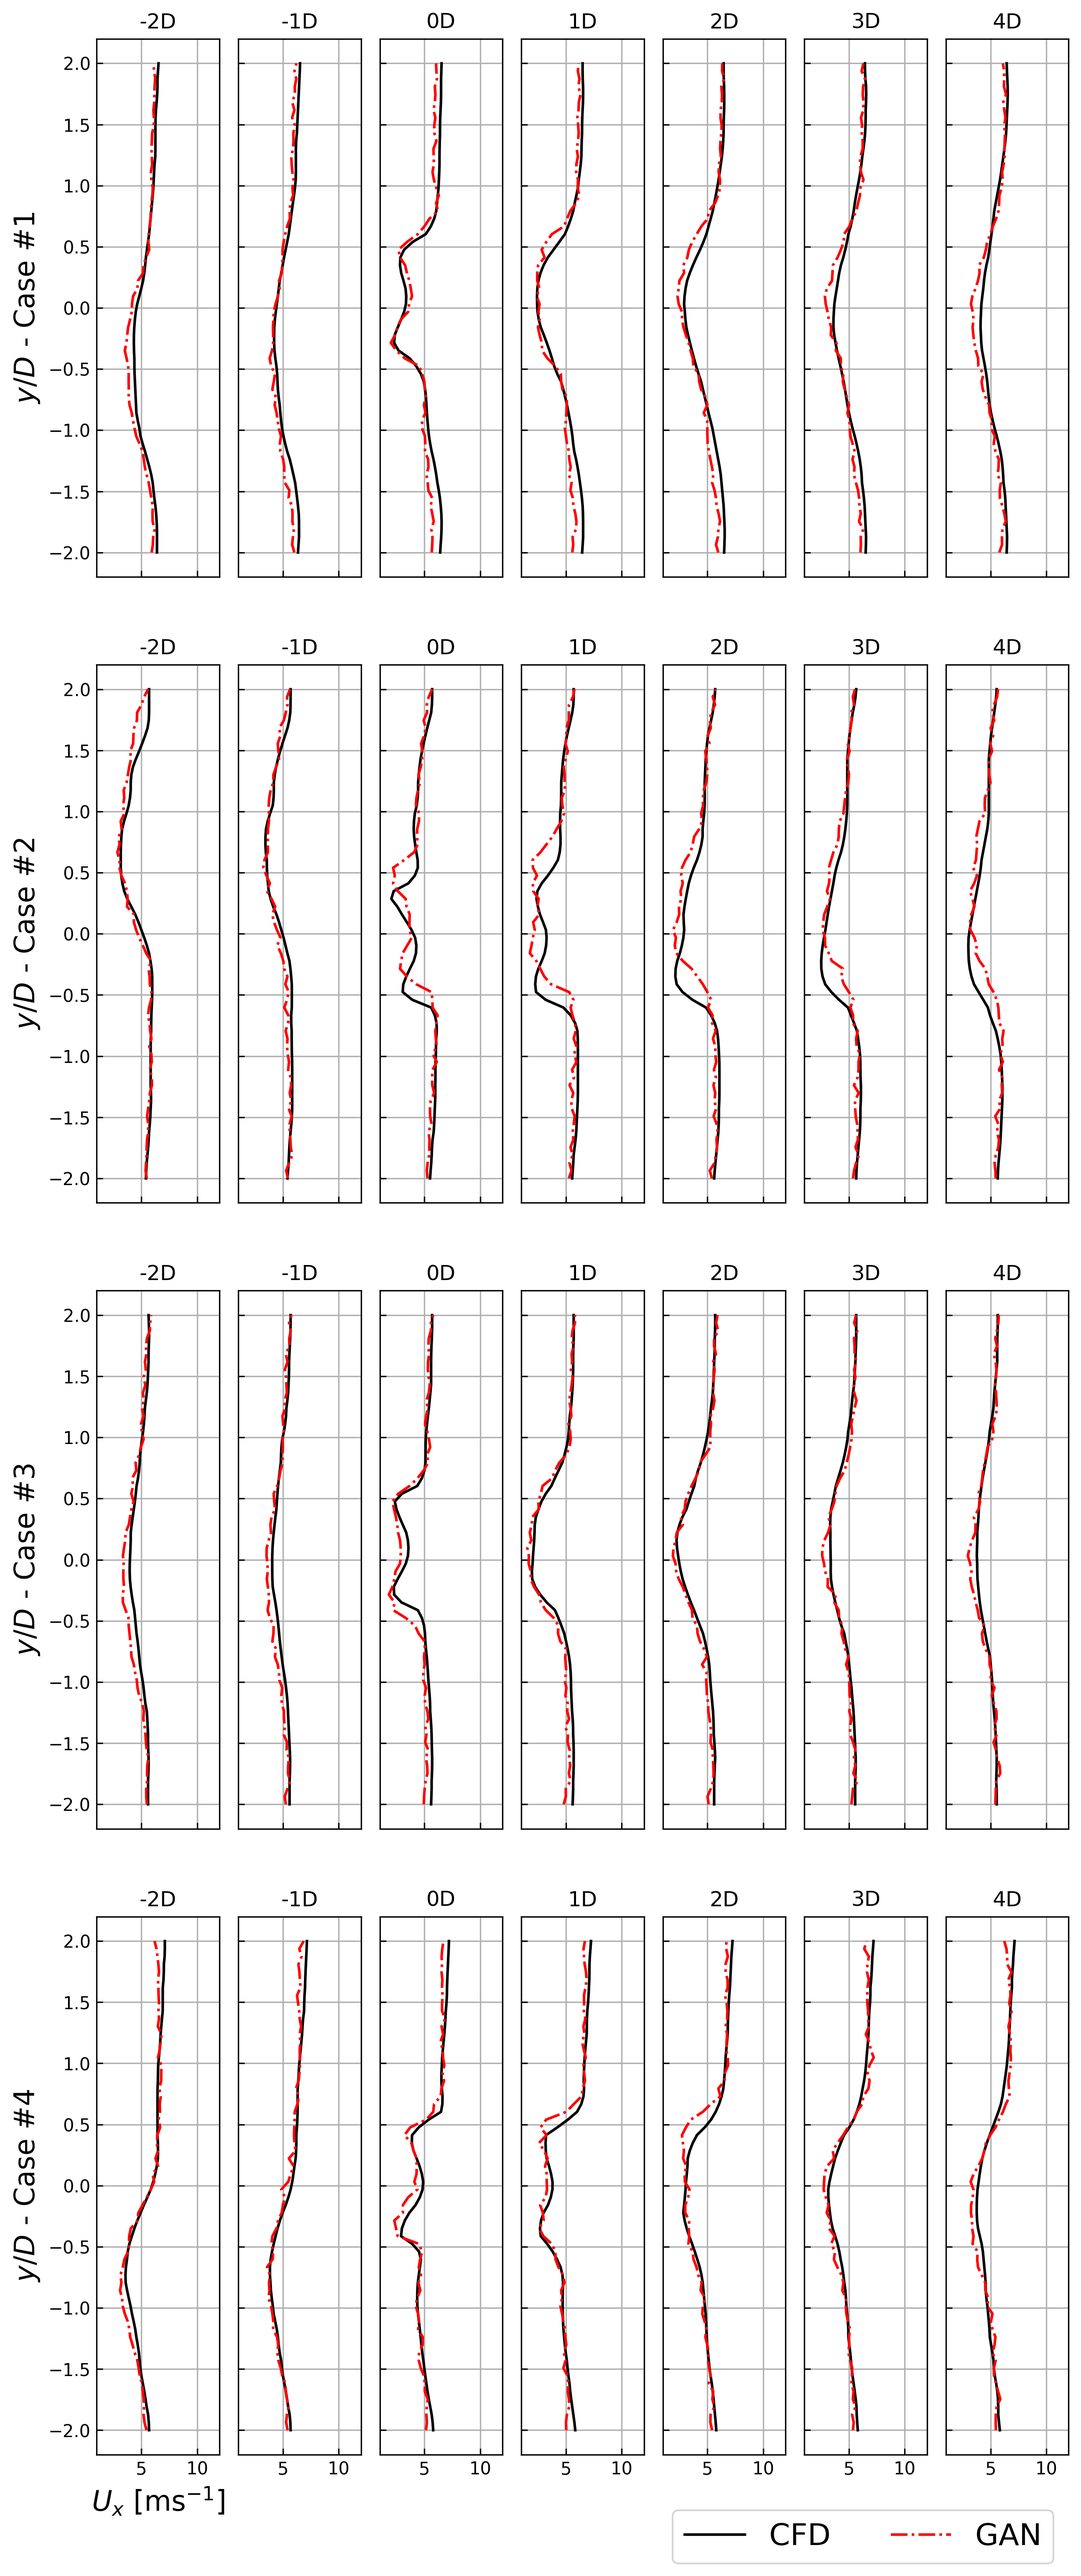
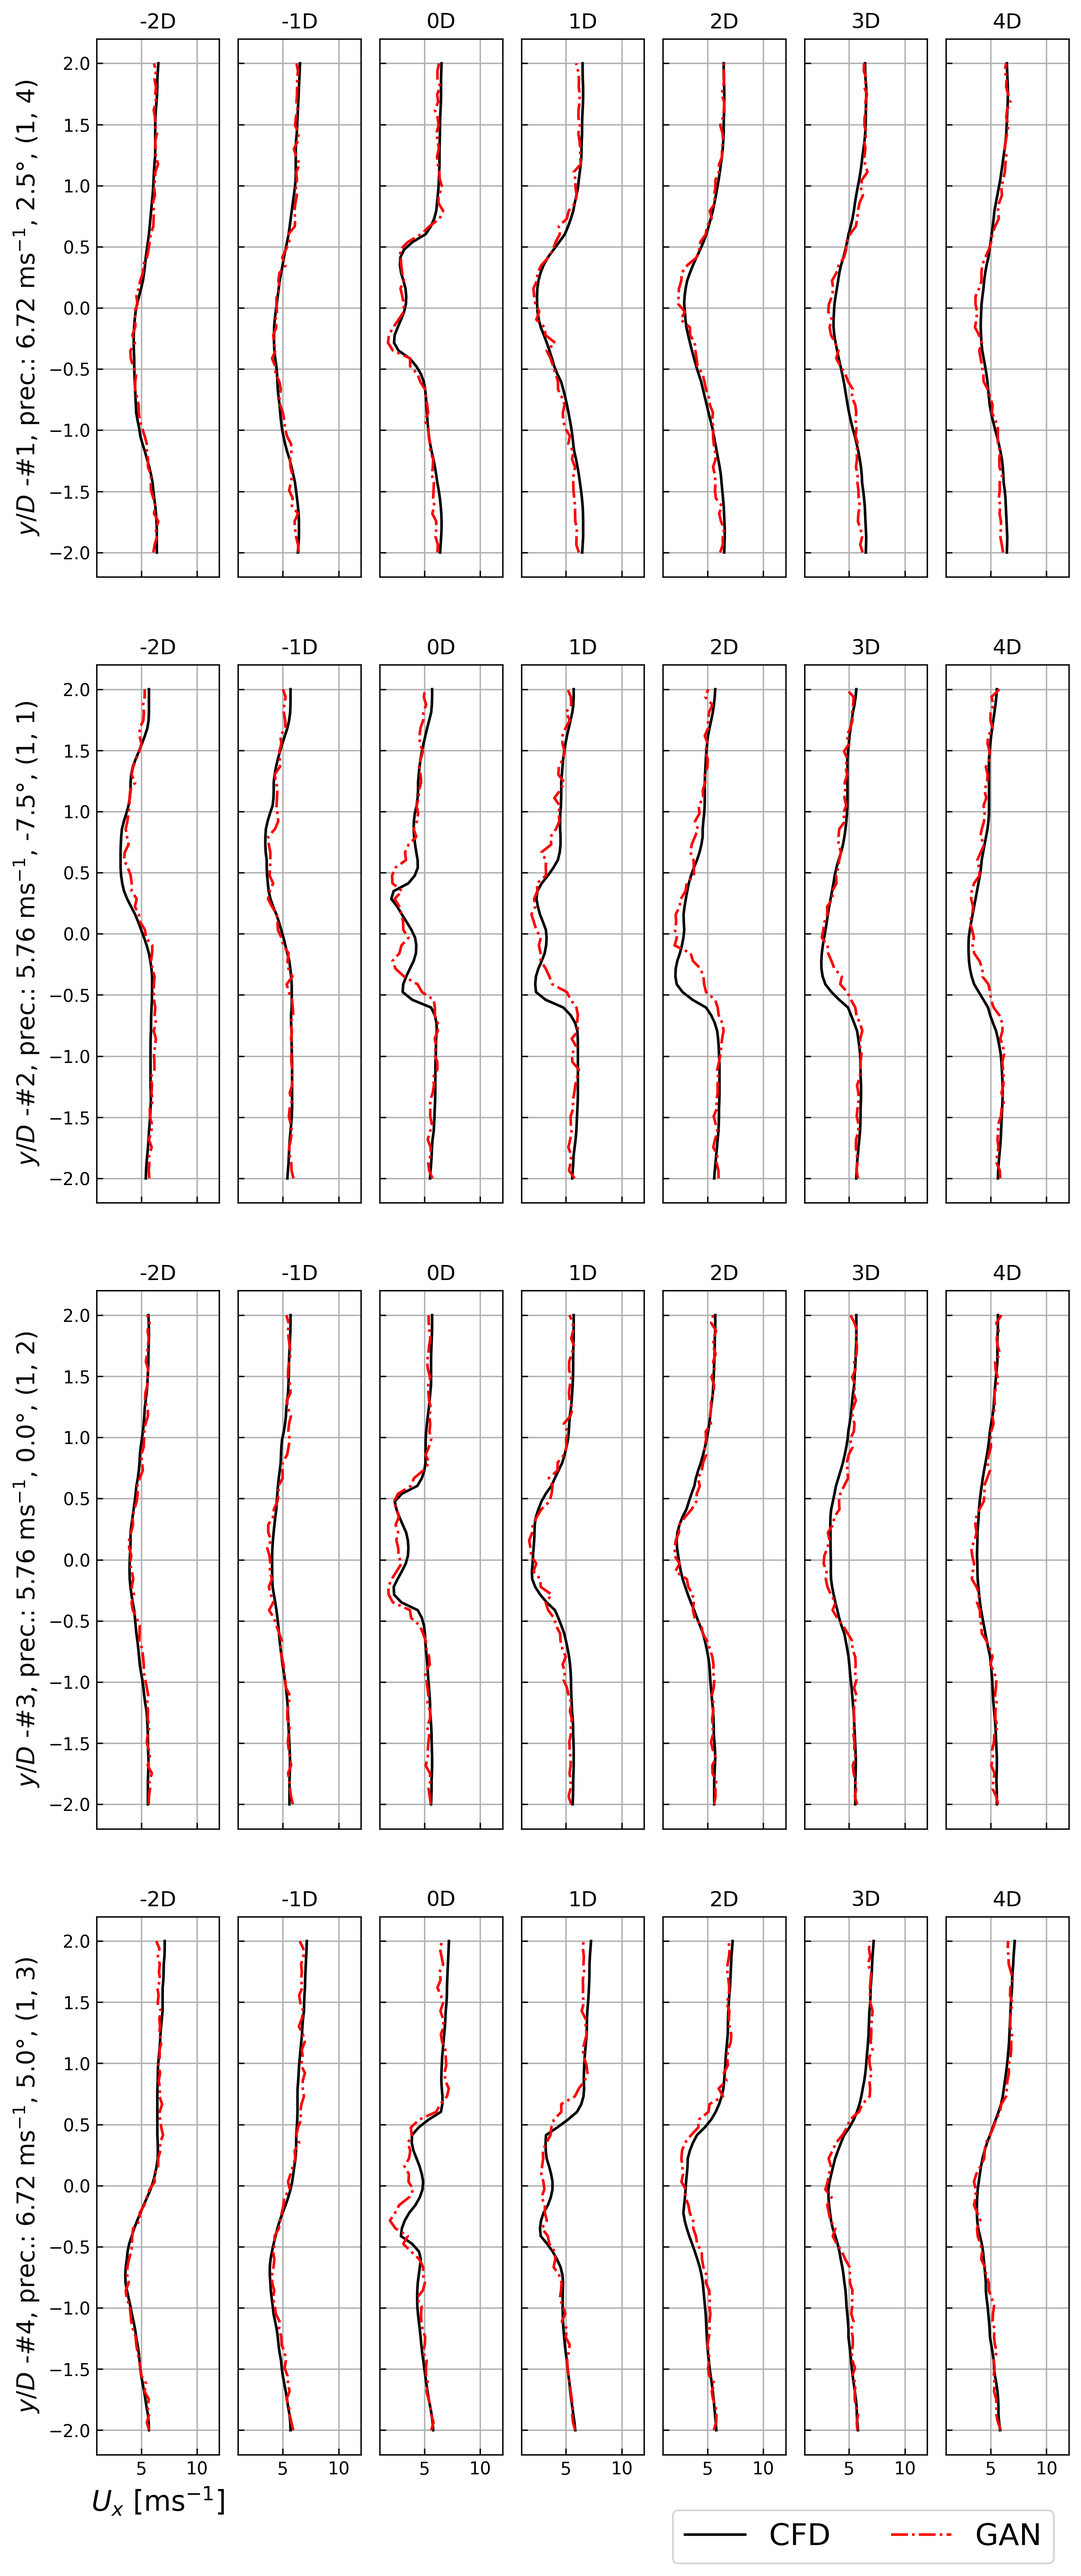
added precursor, angle and position within WF to profile plot

diff --git a/src/data/dataset.py b/src/data/dataset.py
@@ -32,6 +32,7 @@ class WakeGANDataset:
         self.original_size = config["original_size"]
         self.size = config["size"]
         self.clim = [config["figures"]["clim_ux"]]
+        self.wt_grid = config["wt_grid"]
 
         self.norm_type = config["normalization"]["type"]
         self.range = config["normalization"]["range"]
@@ -60,12 +61,12 @@ class WakeGANDataset:
 
     def __getitem__(self, idx: int) -> tuple((Tensor, Tensor)):
 
-        image = self._cat_grayscale_images_as_channels(idx)
+        image, metadata = self._read_image(idx)
         image = self.transforms(image)
 
         inflow = image[:, :, 0]
 
-        return image, inflow
+        return image, inflow, metadata
 
     def __len__(self) -> int:
         return len(self.images_fns[0])
@@ -107,14 +108,32 @@ class WakeGANDataset:
 
         return image
 
-    def _cat_grayscale_images_as_channels(self, idx: int):
+    def _read_image(self, idx: int):
         image = torch.zeros(
             (len(self), self.channels, self.original_size[0], self.original_size[1])
         )
         for i, fns in enumerate(self.images_fns):
             img_path = os.path.join(self.data_subdir[i], fns[idx])
             image = io.read_image(path=img_path, mode=io.ImageReadMode.GRAY)
-        return image
+            metadata = self._extract_metadata(fns[idx])
+        return image, metadata
+
+    def _extract_metadata(self, filename: str) -> Tuple:
+        pos = int(filename.split("_")[0][6:])
+        pos_x = pos % self.wt_grid[0]
+        pos_y = pos % self.wt_grid[1]
+
+        with open(os.path.join("data", "aux", "turns.json")) as f:
+            angle_map = json.load(f)
+        angle = angle_map[filename[4:6]]
+
+        metadata = {
+            "prec": float(filename[1:4]) / 100,
+            "angle": angle,
+            "pos": (pos_x, pos_y),
+        }
+
+        return metadata
 
     def _set_norm_params(self, norm_params, save: bool = False):
         if not norm_params:

diff --git a/src/wakegan.py b/src/wakegan.py
@@ -164,7 +164,7 @@ class WakeGAN:
             self.generator.running_loss_mse = 0
             self.discriminator.running_loss = 0
             running_mse = 0
-            for c, (images, inflows) in enumerate(self.dataset["train"].loader):
+            for c, (images, inflows, _) in enumerate(self.dataset["train"].loader):
                 images = images.float().to(self.device)
                 inflows = inflows.float().to(self.device)
                 synths = self.generator(inflows)
@@ -188,7 +188,7 @@ class WakeGAN:
 
             self.rmse["train"].append(torch.sqrt(running_mse / n_minibatches).cpu())
 
-            images_dev, synths_dev, rmse_dev = self.evaluate_generator(
+            images_dev, synths_dev, rmse_dev, _ = self.evaluate_generator(
                 self.dataset["dev"]
             )
 
@@ -257,7 +257,7 @@ class WakeGAN:
     def evaluate_generator(self, dataset: WakeGANDataset) -> tuple((Tensor, float)):
         self.generator.eval()
         running_mse = 0
-        for (images, inflows) in dataset.loader:
+        for (images, inflows, metadatas) in dataset.loader:
             inflows = inflows.float().to(self.device)
             images = images.to(self.device)
 
@@ -266,7 +266,7 @@ class WakeGAN:
 
         mse = running_mse / len(dataset.loader)
         rmse = torch.sqrt(mse).cpu()
-        return images, synths, rmse
+        return images, synths, rmse, metadatas
 
     def _calculate_batch_mse(
         self, images: Tensor, synths: Tensor, dataset: WakeGANDataset
@@ -315,7 +315,7 @@ class WakeGAN:
         loss_adv = self.criterion(pred_synth, torch.ones_like(pred_synth))
         loss_mse = self.mse(images, synths)
 
-        loss = loss_adv
+        loss = loss_adv + loss_mse
         self.optimizer["generator"].zero_grad()
         loss.backward()
         self.optimizer["generator"].step()

diff --git a/scripts/evaluate.py b/scripts/evaluate.py
@@ -56,17 +56,34 @@ def evaluate():
         batch_size=len(dataset), num_workers=wakegan.workers, shuffle=False
     )
 
-    images_raw, synths_raw, rmse = wakegan.evaluate_generator(dataset)
+    images_raw, synths_raw, rmse, metadatas = wakegan.evaluate_generator(dataset)
 
     images = torch.zeros((len(dataset), 1, wakegan.size[0], wakegan.size[1]))
     synths = torch.zeros((len(dataset), 1, wakegan.size[0], wakegan.size[1]))
-    for c, (img, synth) in enumerate(zip(images_raw, synths_raw)):
+    mtdts = []
+    for c, (img, synth, prec, angle, pos_x, pos_y) in enumerate(
+        zip(
+            images_raw,
+            synths_raw,
+            metadatas["prec"],
+            metadatas["angle"],
+            metadatas["pos"][0],
+            metadatas["pos"][1],
+        )
+    ):
         images[c] = wakegan.transform_back(img, dataset)
         synths[c] = wakegan.transform_back(synth, dataset)
 
+        mtdts.append(
+            {
+                "prec": prec.item(),
+                "angle": angle,
+                "pos": (pos_x.item(), pos_y.item()),
+            }
+        )
+
     images = images.squeeze()
     synths = synths.squeeze()
-
     images_to_plot = [
         images[0],
         synths[0],
@@ -84,9 +101,10 @@ def evaluate():
     flow_image_plotter.plot(images_to_plot)
 
     profiles_plotter = ProfilesPlotter(
-        config["data"]["wt_diam"],
-        config["data"]["lim_around_wt"],
-        config["data"]["size"],
+        wt_d=config["data"]["wt_diam"],
+        limits=config["data"]["lim_around_wt"],
+        size=config["data"]["size"],
+        metadata=mtdts[0:4],
     )
     profiles_plotter.plot(images_to_plot)
 

diff --git a/src/visualization/plots.py b/src/visualization/plots.py
@@ -254,7 +254,7 @@ class FlowImagePlotter:
 
 
 class ProfilesPlotter:
-    def __init__(self, wt_d: float, limits: tuple, size: tuple):
+    def __init__(self, wt_d: float, limits: tuple, size: tuple, metadata: dict):
         self.fig = plt.figure(figsize=(10, 25), dpi=300)
         self.wt_d = wt_d
         self.grid = ImageGrid(
@@ -274,6 +274,10 @@ class ProfilesPlotter:
 
         self.x = np.linspace(x_left, x_right, num=size[0])
         self.y = np.linspace(y_bottom, y_top, num=size[0])
+
+        self.prec = [m["prec"] for m in metadata]
+        self.angle = [m["angle"] for m in metadata]
+        self.pos = [m["pos"] for m in metadata]
 
     def plot(self, images: list):
 
@@ -301,7 +305,11 @@ class ProfilesPlotter:
                 if i == len(self.grid.axes_row) - 1 and j == 0:
                     ax.set_xlabel("$U_x$ [ms$^{-1}$]", fontsize=16)
                 if j == 0:
-                    ax.set_ylabel(f"$y/D$ - Case #{i+1}", fontsize=16)
+                    m_s = "ms$^{-1}$"
+                    ax.set_ylabel(
+                        f"$y/D$ -#{i+1}, prec.: {self.prec[i]} {m_s}, {self.angle[i]}°, {self.pos[i]}",
+                        fontsize=14,
+                    )
 
         self.fig.legend(
             handles=[real_curve, synth_curve],
